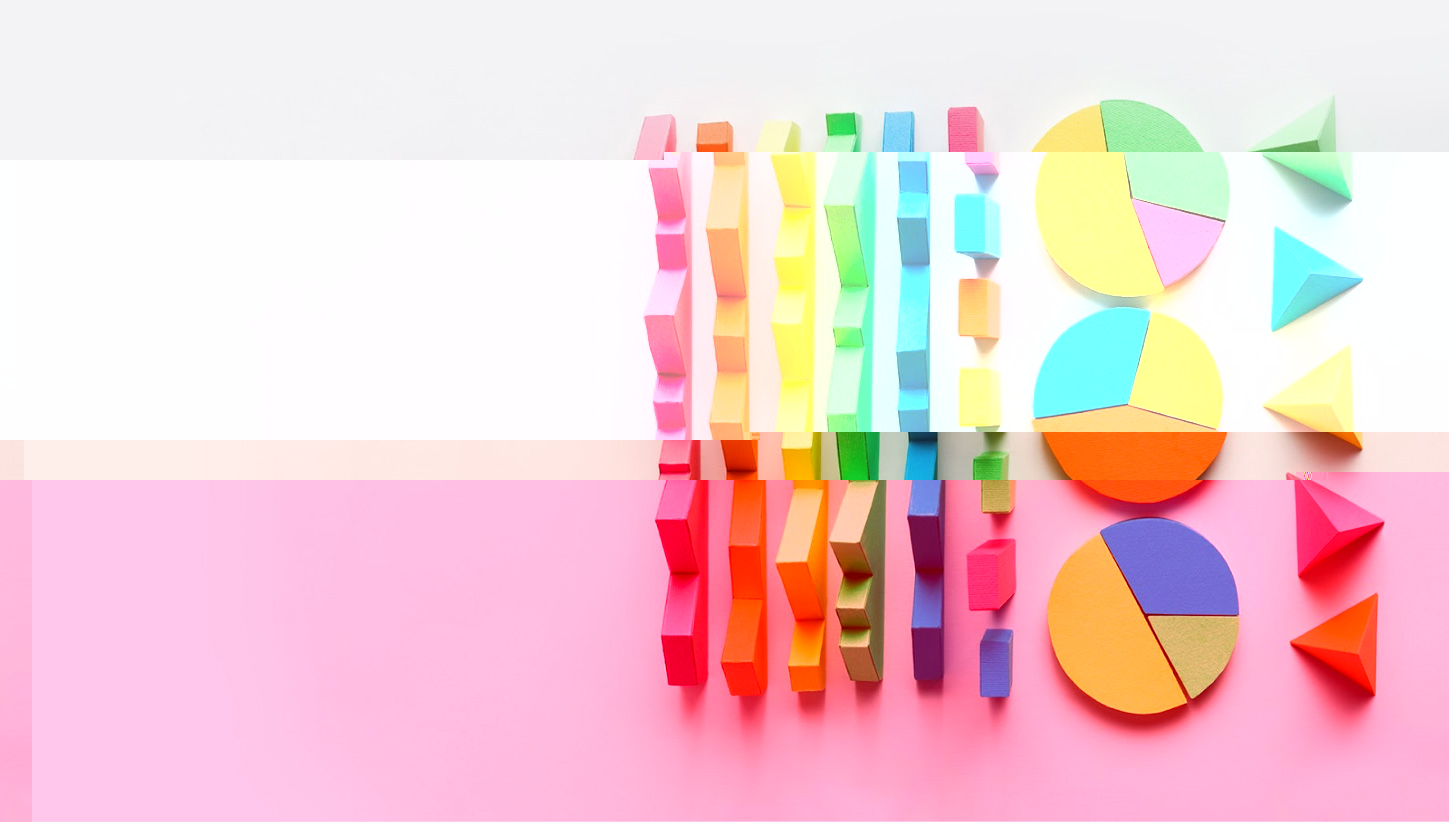
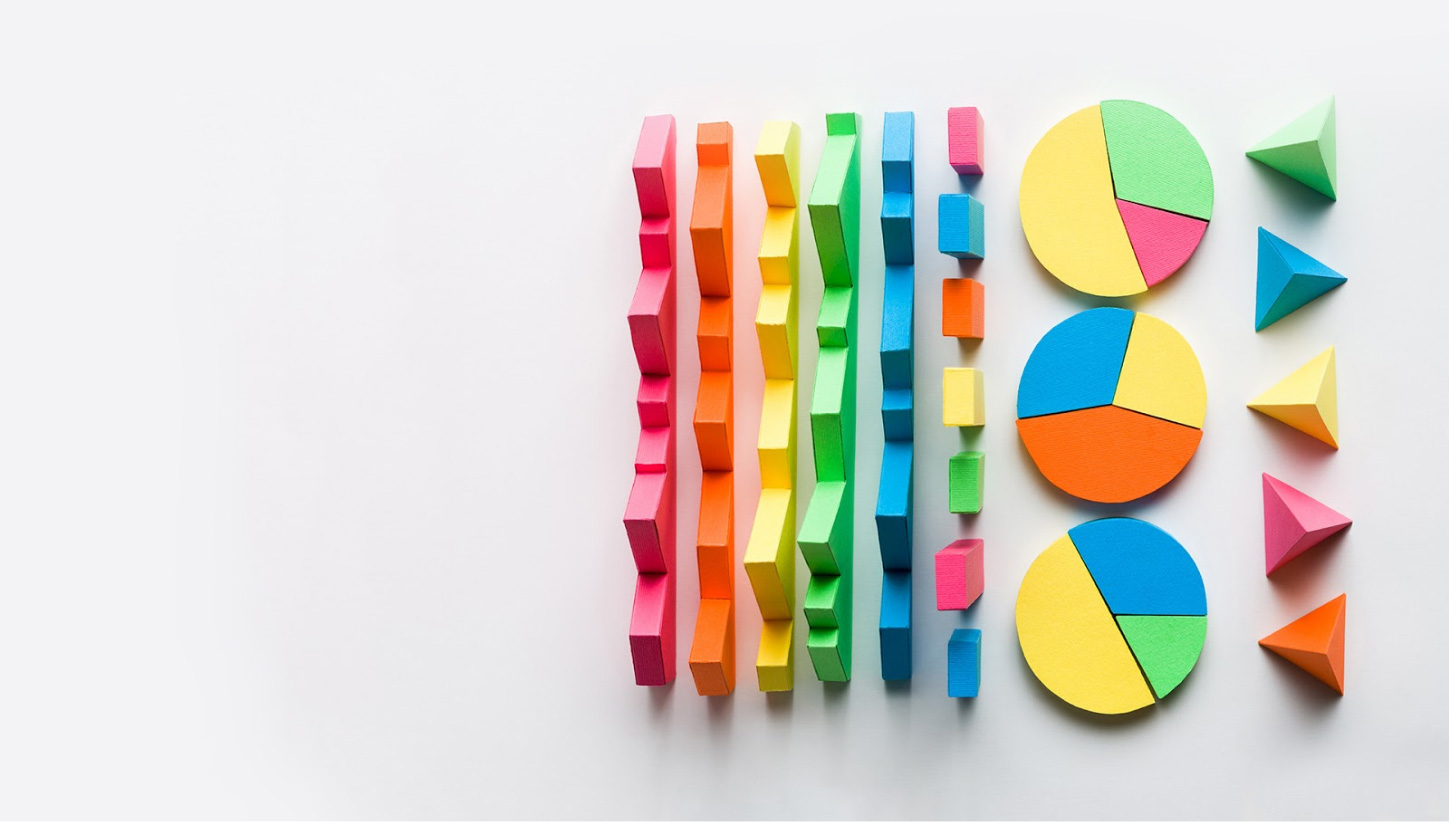
Merge pull request #124 from PublicisSapient/develop
Develop

Pull request: Develop

diff --git a/src/app/dashboard/home/nba/nba.component.css b/src/app/dashboard/home/nba/nba.component.css
@@ -106,3 +106,17 @@
   max-height: 39vh;
   overflow-y: auto;
 }
+
+:host ::ng-deep .tag {
+  display: inline-block;
+  padding: 5px 10px;
+  margin-left: 15px;
+  border-radius: 5px;
+  font-size: 0.75rem;
+  line-height: initial;
+}
+
+:host ::ng-deep .tag.beta {
+  background-color: #ffecdf;
+  color: #f68605;
+}

diff --git a/src/app/component/home-recomm-card/home-recomm-card.component.ts b/src/app/component/home-recomm-card/home-recomm-card.component.ts
@@ -46,6 +46,16 @@ export class HomeRecommCardComponent {
         };
         break;
 
+      case 'critical':
+        this.priorityStyle = {
+          borderLeft: '6px solid #ed8888',
+        };
+        this.priorityLabelStyle = {
+          backgroundColor: '#ed8888',
+          color: '#fff',
+        };
+        break;
+
       case 'low':
       default:
         this.priorityStyle = {

diff --git a/src/app/dashboard/home/nba/nba.component.ts b/src/app/dashboard/home/nba/nba.component.ts
@@ -68,6 +68,8 @@ export class NbaComponent implements OnChanges {
         return '#f68605';
       case 'medium':
         return '#fbcf5f';
+      case 'critical':
+        return '#ed8888';
       case 'low':
       default:
         return '#49535e';

diff --git a/src/app/dashboard/home/nba/nba.component.html b/src/app/dashboard/home/nba/nba.component.html
@@ -3,6 +3,7 @@
     <div class="kpi-card-name-placeholder" role="region" aria-label="KPI Card Header">
       <div class="kpi-card-title-container">
         <h3 tabindex="0" [attr.aria-label]="'Recommended Next Actions'">Recommended Next Actions</h3>
+        <small class="tag beta">BETA</small>
       </div>
     </div>
   </div>